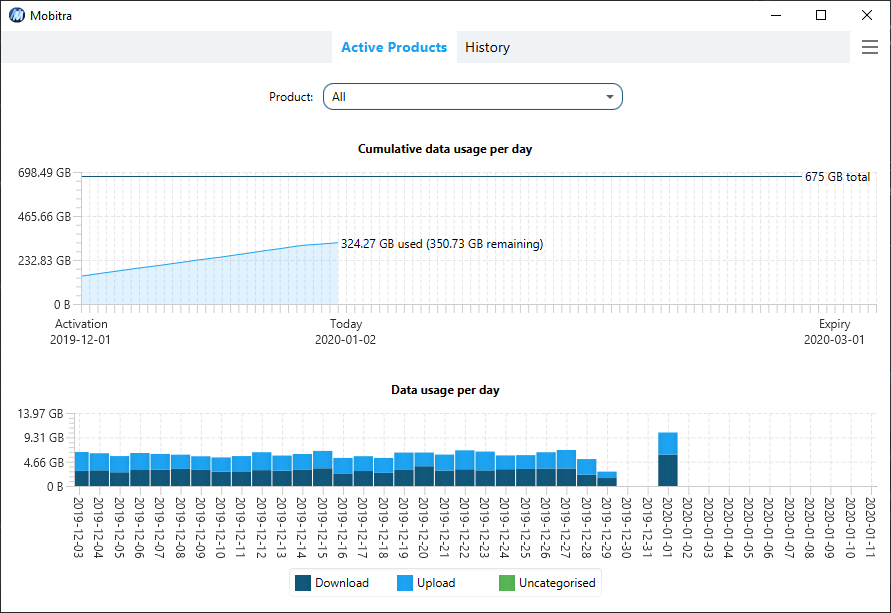
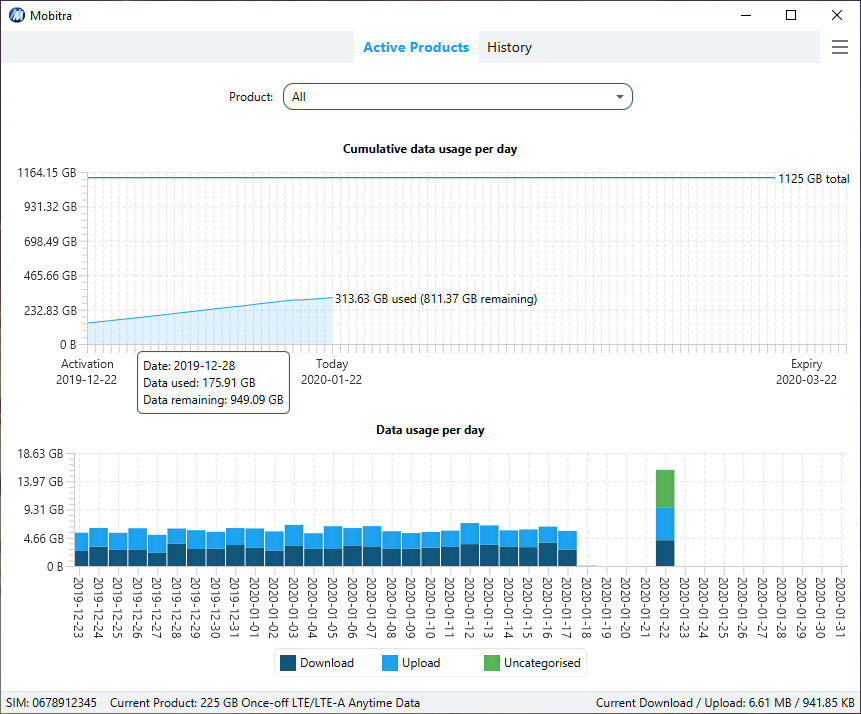
Version 0.5 alpha
- DataUsageBarChart: Fix timestamp check when adding realtime data usage.
- DataUsageMonitor: Fix issue where product with no remaining data gets marked
  as in-use.
- UI: Sort Active Products drop-down items according to activation date, type
  and remaining amount.
- Documentation: updated screenshots.

diff --git a/src/main/kotlin/com/mpaulse/mobitra/DataUsageMonitor.kt b/src/main/kotlin/com/mpaulse/mobitra/DataUsageMonitor.kt
@@ -155,11 +155,11 @@ class DataUsageMonitor(
 
     private fun pollDataUsage() = flow {
         var lastTrafficStats: HuaweiTrafficStats? = null
-        var downloadAmountTickDelta: Long
-        var downloadAmountUpdateDelta = 0L
+        var downloadAmountTick: Long
+        var downloadAmountToLog = 0L
         var downloadAmountTotal = 0L
-        var uploadAmountTickDelta: Long
-        var uploadAmountUpdateDelta = 0L
+        var uploadAmountTick: Long
+        var uploadAmountToLog = 0L
         var uploadAmountTotal = 0L
 
         while (true) {
@@ -167,20 +167,25 @@ class DataUsageMonitor(
                 yield()
                 val trafficStats = monitoringAPIClient?.getHuaweiTrafficStatistics()
                 if (trafficStats != null) {
-                    downloadAmountTickDelta = -1L
-                    uploadAmountTickDelta = -1L
+                    downloadAmountTick = -1L
+                    uploadAmountTick = -1L
                     if (lastTrafficStats != null) {
-                        downloadAmountTickDelta = trafficStats.currentDownloadAmount - lastTrafficStats.currentDownloadAmount
-                        uploadAmountTickDelta = trafficStats.currentUploadAmount - lastTrafficStats.currentUploadAmount
+                        downloadAmountTick = trafficStats.currentDownloadAmount - lastTrafficStats.currentDownloadAmount
+                        uploadAmountTick = trafficStats.currentUploadAmount - lastTrafficStats.currentUploadAmount
                     }
-                    if (downloadAmountTickDelta >= 0 && uploadAmountTickDelta >= 0) {
-                        downloadAmountUpdateDelta += downloadAmountTickDelta
-                        downloadAmountTotal += downloadAmountTickDelta
-                        uploadAmountUpdateDelta += uploadAmountTickDelta
-                        uploadAmountTotal += uploadAmountTickDelta
+                    if (downloadAmountTick >= 0 && uploadAmountTick >= 0) {
+                        downloadAmountToLog += downloadAmountTick
+                        downloadAmountTotal += downloadAmountTick
+                        uploadAmountToLog += uploadAmountTick
+                        uploadAmountTotal += uploadAmountTick
+                        launch(Dispatchers.Main) {
+                            onDataTrafficUpdate(
+                                MobileDataUsage(downloadAmount = downloadAmountTick, uploadAmount = uploadAmountTick),
+                                MobileDataUsage(downloadAmount = downloadAmountTotal, uploadAmount = uploadAmountTotal))
+                        }
                     }
                     if (logger.isDebugEnabled) {
-                        logger.debug("Tick: downloads = $downloadAmountUpdateDelta B, uploads = $uploadAmountUpdateDelta B")
+                        logger.debug("Update tick: downloads = $downloadAmountToLog B, uploads = $uploadAmountToLog B")
                     }
 
                     // Emit event if:
@@ -188,24 +193,19 @@ class DataUsageMonitor(
                     // - there is a router restart or a switch a different router (d < 0 or u < 0)
                     // - the product remaining amount gets consumed
                     if (updateProducts
-                            || (downloadAmountTickDelta < 0 || uploadAmountTickDelta < 0)
+                            || (downloadAmountTick < 0 || uploadAmountTick < 0)
                             || (activeProductInUse != null
-                                && (downloadAmountUpdateDelta + uploadAmountUpdateDelta) >= activeProductInUse!!.remainingAmount)) {
+                                && (downloadAmountToLog + uploadAmountToLog) >= activeProductInUse!!.remainingAmount)) {
                         emit(MobileDataUsage(
-                            downloadAmount = downloadAmountUpdateDelta,
-                            uploadAmount = uploadAmountUpdateDelta))
+                            downloadAmount = downloadAmountToLog,
+                            uploadAmount = uploadAmountToLog))
                         if (!updateProducts) {
-                            downloadAmountUpdateDelta = 0
-                            uploadAmountUpdateDelta = 0
+                            downloadAmountToLog = 0
+                            uploadAmountToLog = 0
                         }
                     }
 
                     lastTrafficStats = trafficStats
-                    launch(Dispatchers.Main) {
-                        onDataTrafficUpdate(
-                            MobileDataUsage(downloadAmount = downloadAmountTickDelta, uploadAmount = uploadAmountTickDelta),
-                            MobileDataUsage(downloadAmount = downloadAmountTotal, uploadAmount = uploadAmountTotal))
-                    }
                 }
 
                 // Delay until just the next hour mark when we emit an event,
@@ -274,7 +274,7 @@ class DataUsageMonitor(
     private fun getProductInUseOfType(msisdn: String, type: MobileDataProductType): MobileDataProduct? {
         var productInUse: MobileDataProduct? = null
         for (product in activeProductsMap.values) {
-            if (product.totalAmount > 0
+            if (product.remainingAmount > 0
                 && product.msisdn == msisdn
                 && product.type == type
                 && (productInUse == null || product.activationDate <= productInUse.activationDate)) {

diff --git a/src/main/kotlin/com/mpaulse/mobitra/Mobitra.kt b/src/main/kotlin/com/mpaulse/mobitra/Mobitra.kt
@@ -361,10 +361,27 @@ class MobitraApplication: Application(), CoroutineScope by MainScope() {
         val allProductsItem = ActiveProductMenuItem("All", null)
         activeProductsMenu.items.add(allProductsItem)
 
-        for ((productId, product) in dataUsageMonitor.activeProducts) {
-            val item = ActiveProductMenuItem(product.fullDisplayName, productId)
+        val activeProducts = dataUsageMonitor.activeProducts.values.sortedWith(Comparator {
+            p1: MobileDataProduct, p2: MobileDataProduct ->
+            var c = 0
+            if (p1.remainingAmount == 0L && p2.remainingAmount > 0L) {
+                c = 1
+            } else if (p2.remainingAmount == 0L && p1.remainingAmount > 0L) {
+                c = -1
+            }
+            if (c == 0) {
+                c = p1.activationDate.compareTo(p2.activationDate)
+            }
+            if (c == 0) {
+                c = p1.type.compareTo(p2.type)
+            }
+            c
+        })
+
+        for (product in activeProducts) {
+            val item = ActiveProductMenuItem(product.fullDisplayName, product.id)
             activeProductsMenu.items.add(item)
-            if (productId == selectedItem?.productId) {
+            if (product.id == selectedItem?.productId) {
                 selectedItem = item
             }
         }
@@ -421,6 +438,7 @@ class MobitraApplication: Application(), CoroutineScope by MainScope() {
     private fun onActiveProductsUpdate() {
         refreshActiveProductsMenu()
         loadHistory = true
+        unrecordedDataUsage.clear()
         if (toggleGroup.selectedToggle == historyBtn) {
             onViewHistory()
         } else if (toggleGroup.selectedToggle == activeProductsBtn) {
@@ -428,13 +446,12 @@ class MobitraApplication: Application(), CoroutineScope by MainScope() {
         }
 
         setStatusBarProductInfoText(dataUsageMonitor.currentProduct)
-        unrecordedDataUsage.clear()
     }
 
     private fun setStatusBarProductInfoText(currentProduct: MobileDataProduct? = null) {
         val currentProductDisplayName = currentProduct?.displayName ?: "Unknown"
         val msisdn = currentProduct?.msisdn ?: "Unknown"
-        statusBarLeftLabel.text = "SIM: $msisdn        Product: $currentProductDisplayName"
+        statusBarLeftLabel.text = "SIM: $msisdn    Current Product: $currentProductDisplayName"
     }
 
     private fun onDataTrafficUpdate(delta: MobileDataUsage, total: MobileDataUsage) {
@@ -451,8 +468,6 @@ class MobitraApplication: Application(), CoroutineScope by MainScope() {
         }
 
         // Update charts with delta
-        // TODO: the numbers seem incorrect on chart (double-added?)
-        // TODO: Panning does not work correctly for bar charts
         val selectedProductId = activeProductsMenu.selectionModel.selectedItem.productId
         if (selectedProductId == null || selectedProductId == dataUsageMonitor.currentProduct?.id) {
             addDataUsageToChartScreen(delta, activeProductsScreen)
@@ -462,7 +477,7 @@ class MobitraApplication: Application(), CoroutineScope by MainScope() {
         // Update status bar and system tray tooltip
         val downloadAmountStr = DataAmountStringFormatter.toString(total.downloadAmount)
         val uploadAmountStr = DataAmountStringFormatter.toString(total.uploadAmount)
-        statusBarRightLabel.text = "Download: $downloadAmountStr    Upload: $uploadAmountStr"
+        statusBarRightLabel.text = "Current Download / Upload: $downloadAmountStr / $uploadAmountStr"
         sysTrayIcon?.toolTip =
             """
             $APP_NAME

diff --git a/src/test/kotlin/com/mpaulse/mobitra/TelkomOnnetSimulator.kt b/src/test/kotlin/com/mpaulse/mobitra/TelkomOnnetSimulator.kt
@@ -90,7 +90,7 @@ private fun simulateGoodHost() {
                     "resultMessage": "Onnet session created",
                     "friendlyCustomerMessage": "",
                     "payload": {
-                        "msisdn": "0123456789"
+                        "msisdn": "0678912345"
                     }
                 }
                 """.trimIndent())))
@@ -125,8 +125,8 @@ private fun simulateGoodHost() {
                                 "type": "5125",
                                 "typeName": "Once-off LTE/LTE-A Night Surfer Data",
                                 "service": "GPRS",
-                                "totalAmount": "64183731327",
-                                "totalAmountAndMeasure": "61210 MB",
+                                "totalAmount": "241591910400",
+                                "totalAmountAndMeasure": "230400 MB",
                                 "usedAmount": "{{nightSurferUsedAmount}}",
                                 "usedAmountAndMeasure": "{{nightSurferUsedAmountFormatted}}",
                                 "measure": "Bytes",
@@ -142,8 +142,8 @@ private fun simulateGoodHost() {
                                 "type": "5127",
                                 "typeName": "Once-off LTE/LTE-A Anytime Data",
                                 "service": "GPRS",
-                                "totalAmount": "53002844210",
-                                "totalAmountAndMeasure": "50547 MB",
+                                "totalAmount": "241591910400",
+                                "totalAmountAndMeasure": "230400 MB",
                                 "usedAmount": "{{anytimeUsedAmount}}",
                                 "usedAmountAndMeasure": "{{anytimeUsedAmountFormatted}}",
                                 "measure": "Bytes",

diff --git a/src/main/kotlin/com/mpaulse/mobitra/DataUsageBarChart.kt b/src/main/kotlin/com/mpaulse/mobitra/DataUsageBarChart.kt
@@ -160,7 +160,7 @@ class DataUsageBarChart(
         var lastPointUpdated = false
         if (dataUsageList.isNotEmpty()) {
             val lastPoint = dataUsageList.last()
-            if (timestampToDate(lastPoint.timestamp) == timestampToDate(dataUsage.timestamp)) {
+            if (dateToString(timestampToDate(lastPoint.timestamp)) == dateToString(timestampToDate(dataUsage.timestamp))) {
                 lastPoint.downloadAmount += dataUsage.downloadAmount
                 lastPoint.uploadAmount += dataUsage.uploadAmount
                 lastPoint.uncategorisedAmount += dataUsage.uncategorisedAmount

diff --git a/src/main/kotlin/com/mpaulse/mobitra/CumulativeDataUsagePerDayChart.kt b/src/main/kotlin/com/mpaulse/mobitra/CumulativeDataUsagePerDayChart.kt
@@ -196,6 +196,8 @@ private class CumulativeDataUsagePerDayChartOverlay(
             for (point in dataSeries) {
                 if (point.xValue.toLong() <= x) {
                     closestPoint = point
+                } else {
+                    break
                 }
             }
             if (closestPoint != null && x <= dataSeries.last().xValue.toLong() && y <= closestPoint.yValue.toLong()) {

diff --git a/src/test/kotlin/com/mpaulse/mobitra/TestDataGenerator.kt b/src/test/kotlin/com/mpaulse/mobitra/TestDataGenerator.kt
@@ -47,7 +47,7 @@ fun generateProductData(
 
     val product = MobileDataProduct(
         UUID.randomUUID(),
-        "012345678912345",
+        "0678912345",
         productName,
         type,
         totalAmount,

diff --git a/README.md b/README.md
@@ -21,7 +21,7 @@ usage patterns.
 
 ## Download:
 
-Not yet released.
+Development builds for testing purposes are available on the [Releases](https://github.com/mpaulse/mobitra/releases) page.
 
 ## Installation and Setup:
 
